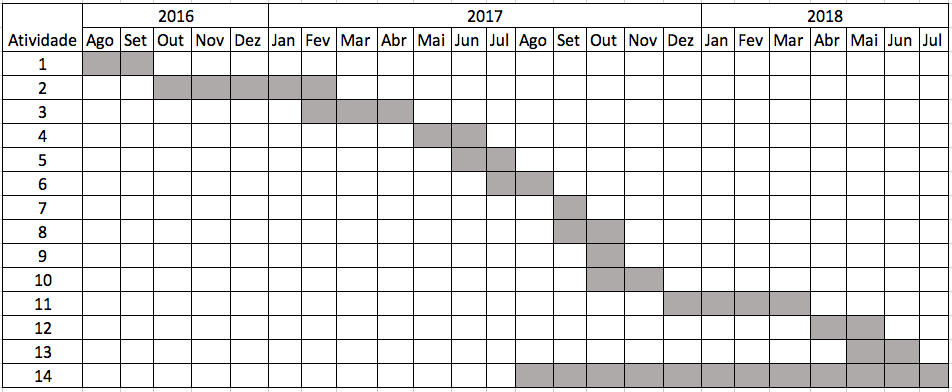
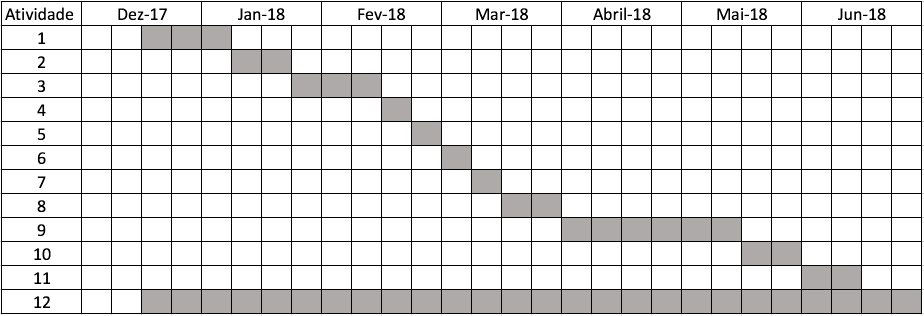
Update schedule and show parcial achievements (papers published)

diff --git a/Partes/cap6.tex b/Partes/cap6.tex
@@ -1,1 +1,22 @@
-\chapter{Conclusões}\label{chapter:conclusoes}
+\chapter{Considerações Finais}\label{chapter:conclusoes}
+
+\section{Cronograma}
+
+O cronograma proposto para a execução do restante desse trabalho pode ser visto no Apêndice \ref{ape:cronograma}. A etapa
+de implementação da interface e dos algoritmos de recomendação está previsto para começar no mês de Dezembro e ir até
+a metade do mês de Fevereiro. O período de preparação para o experimento irá acontecer da metade de Fevereiro até o
+final do mês de Março, incluindo a mobilização de participantes para o experimento. O experimento propriamente dito está
+previsto para acontecer durante o mês de Abril e até a metade do mês de Maio. Da metade do mês de Maio até o final do mês de Junho
+está previsto para ser realizadas as análises dos resultados e a finalização da dissertação.
+
+\section{Resultados Parciais}
+
+Como resultados parciais desse trabalho temos as seguintes publicações:
+
+\begin{itemize}
+\item BORBA, E. J.; GASPARINI, I.; LICHTNOW, D.; OLIVEIRA, J. P. M.; PIMENTA, M. S. Captura E Visualização Da Trajetória De Aprendizagem Do Aluno: Um Mapeamento Sistemático. Congresso Internacional de Informática Educativa (TISE), Santiago (Chile). v. 12, p. 105-111, 2016.
+\item BORBA, E. J.; GASPARINI, I.; LICHTNOW, D. Sistema De Recomendação Para Um AVA Que Leva Em Conta Necessidades De Curto E Longo Prazo Dos Usuários. Congresso Internacional de Informática Educativa (TISE), Santiago (Chile). v. 12, p. 444-448., 2016.
+\item BORBA, E. J.; Gasparini, I.; LICHTNOW, D. Time-Aware Recommender Systems: A Systematic Mapping. International Conference on Human-Computer Interaction (HCI), Vancouver, Part II, LNCS 10272, v. II, p. 464-479, 2017.
+\item BORBA, E. J.; GASPARINI, I.; LICHTNOW, D. The Use of Time Dimension in Recommender Systems for Learning. Proceedings of the 19th International Conference on Enterprise Information Systems (ICEIS), Porto (Portugal) 2017. v. 2. p. 600-609.
+\item BORBA, E. J.; GASPARINI, I.; LICHTNOW, D. Sistema de Recomendação Sensível ao Tempo em Ambientes Educacionais. IV Workshop de Teses e Dissertações em IHC (WTD-IHC), Joinville, 2017.
+\end{itemize}

diff --git a/Partes/apeA.tex b/Partes/apeA.tex
@@ -10,18 +10,15 @@ estão por vir. Cada atividade está numerada no cronograma e explicada em detal
 \end{figure}
 
 \begin{enumerate}
-\item Estudo dos Sistemas de Recomendação aplicados em Ambientes Virtuais de Aprendizagem
-\item Estudo dos Sistemas de Recomendação Sensíveis ao Tempo
-\item Análise de como aplicar os Sistemas de Recomendação Sensíveis ao Tempo em Ambientes Virtuais de Aprendizagem
-\item Estudo das formas de avaliação de Sistema de Recomendação
-\item Estudo das métricas para avaliação de Sistemas de Recomendação
-\item Estudo das formas de avaliação de Sistema de Recomendação em Ambientes Virtuais de Aprendizagem
-\item Identificar as características do \adaptweb
-\item Estudo para decidir o algoritmo a ser utilizado
-\item Identificar os pontos de alteração no \adaptweb
-\item Definir a forma de avaliação a ser realizada e as métricas utilizadas
-\item Implementar a proposta no \adaptweb
-\item Realizar o experimento para avaliação da proposta
-\item Analisar os resultados do experimento
+\item Implementar a interface das recomendações
+\item Analisar ferramentas para facilitar o cálculo da similaridade do perfil do usuário com os itens
+\item Implementar os algoritmos de recomendação (tradicional e a proposta desse trabalho)
+\item Melhorar a categorização (palavras-chave) dos materiais e Links de Apoio presentes no minicurso de algoritmos
+\item Realizar testes para garantir a funcionalidade dos algoritmos de recomendação desenvolvidos
+\item Produzir os intrumentos necessários para o experimento
+\item Convidar alunos a participar do experimento
+\item Realizar o experimento
+\item Estudar e definir as técnicas de análise dos dados
+\item Analisar os dados (resultados do experimento)
 \item Escrever a dissertação
 \end{enumerate}
